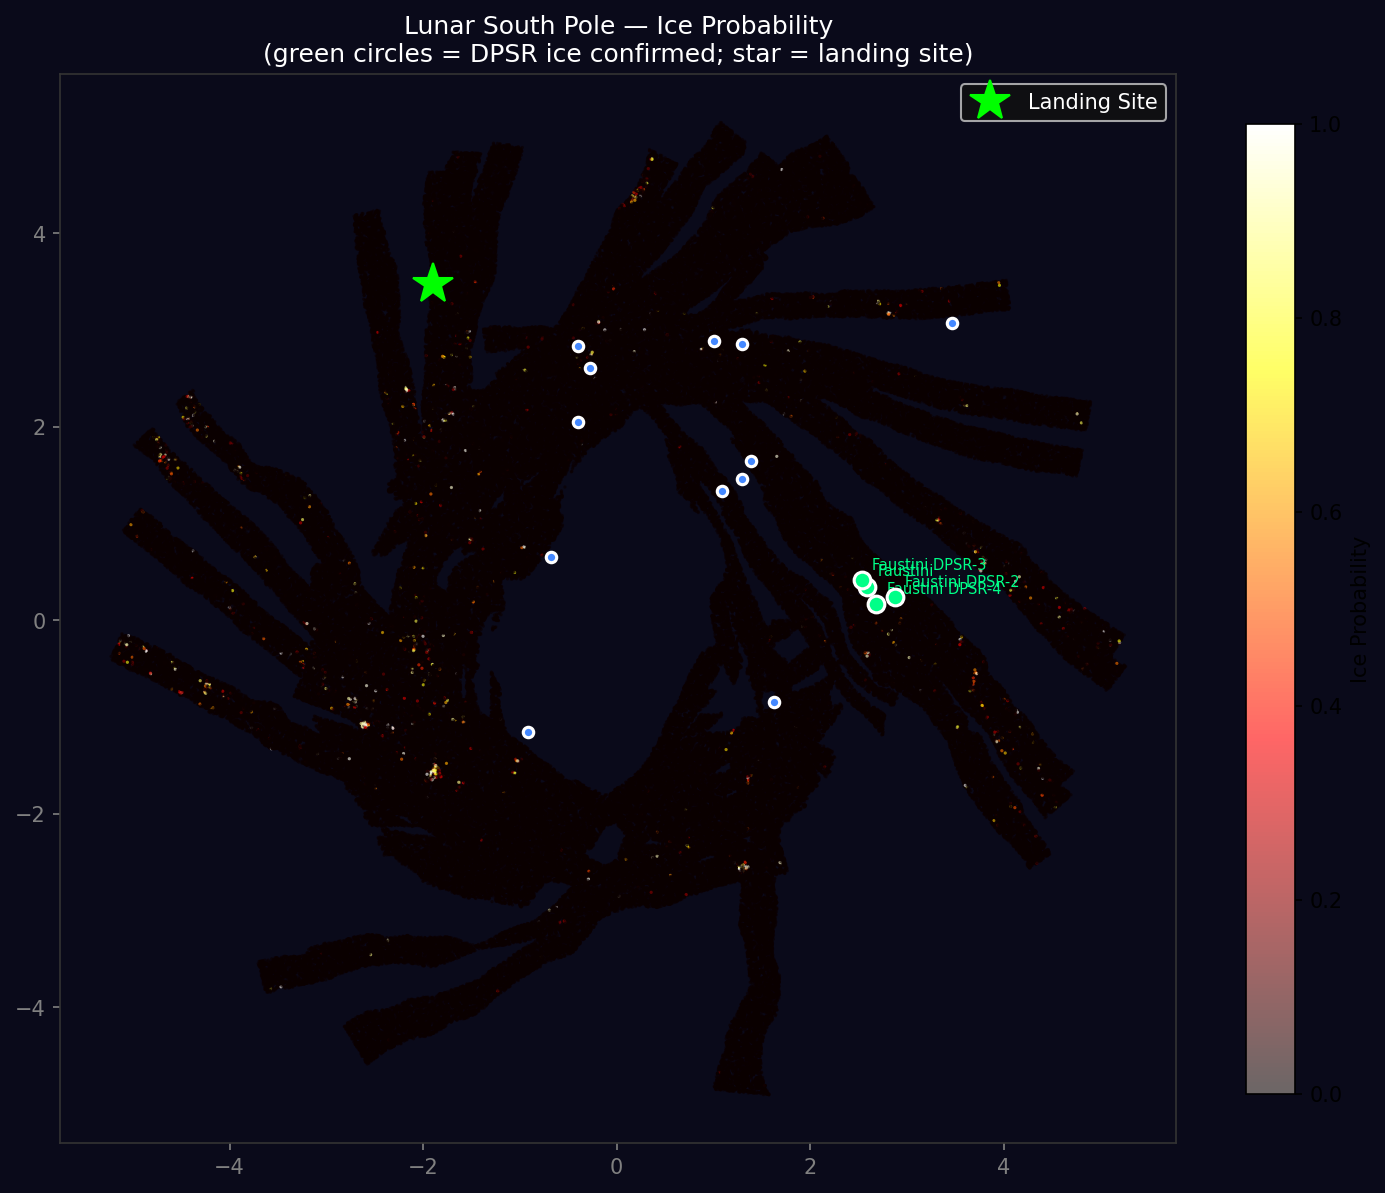
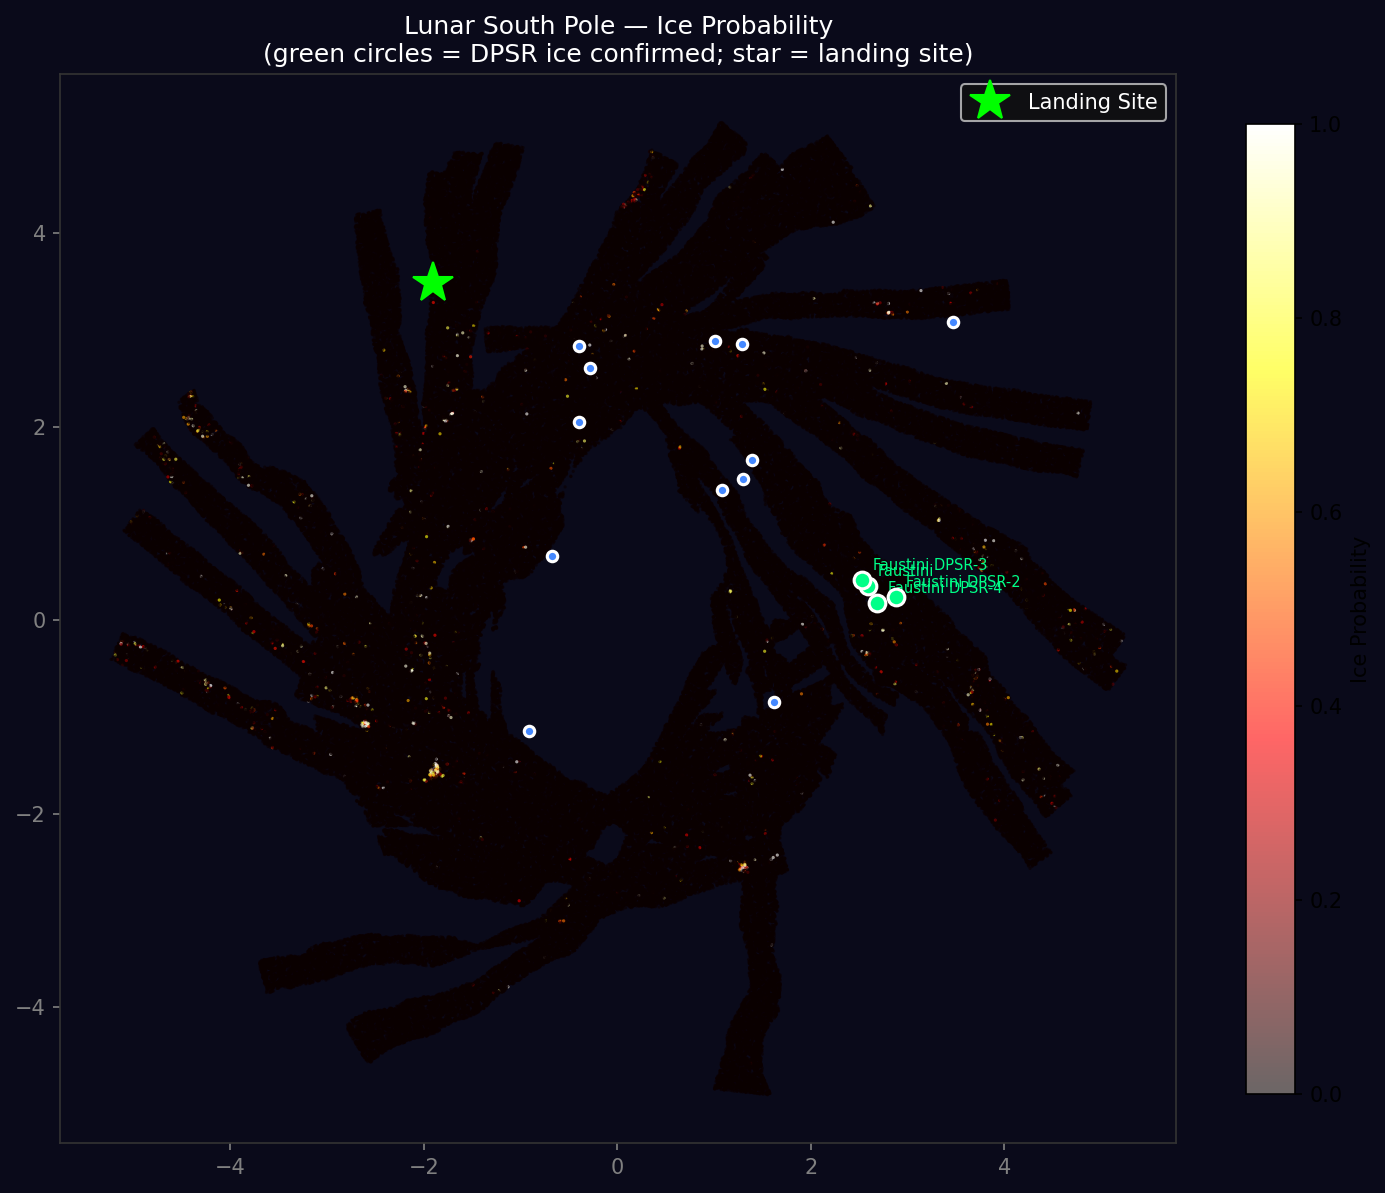
fix: correct pipeline outputs for east+west with 3 critical bugs fixed
Bug 1: _last_result overwrite in ice_volume.py
  - estimate_volume_per_crater() called estimate_volume() per crater,
    overwriting _last_result with last crater's tiny result (0 vol)
  - Fix: restore global result before generate_volume_report()

Bug 2: matplotlib OOM in stage5 visualization
  - 12237x12794 grid -> 4.67 GiB float64 RGBA array = crash
  - Fix: subsample to max 4096px before imshow

Bug 3: cached load used subsample=1 vs inference subsample=2 (west)
  - Shape mismatch: loader 24794x24181 vs cached npy 12397x12091
  - Fix: subsample=2 for west in cached load path

Also:
  - Per-crater bbox crop: 100-1000x faster (avoid full 150M array per crater)
  - West mission report now uses correct model metrics (F1=0.9383, not east's 0.8428)
  - Direction-aware dataset stats (67K patches/37M pixels for west)

Results:
  East: 8,423,807 m3 | 7724.6 Mt | traverse 60 wp 1.76 km | F1=0.8428
  West: 5,621,712 m3 | 5155.1 Mt | traverse 6 wp 0.12 km  | F1=0.9383

diff --git a/src/analysis/ice_volume.py b/src/analysis/ice_volume.py
@@ -441,11 +441,18 @@ class IceVolumeEstimator:
                 'mean_ice_fraction', 'n_pixels',
                 'volume_lower_m3', 'volume_upper_m3'
         """
-        # float32 throughout — avoids OOM and 47-min runtime on 12237×12794 grids
+        # float32 throughout — avoids OOM on 150M pixel grids
         lat = np.asarray(lat, dtype=np.float32)
         lon = np.asarray(lon, dtype=np.float32)
         ice_prob = np.asarray(ice_prob, dtype=np.float32)
         cpr_map = np.asarray(cpr_map, dtype=np.float32)
+
+        # Precompute ice fraction + depth once over the full grid (avoid repeat work)
+        ice_fraction_full = self.dielectric.estimate_ice_fraction(cpr_map).astype(np.float32)
+        if depth_map is not None:
+            depth_full = np.asarray(depth_map, dtype=np.float32)
+        else:
+            depth_full = estimate_penetration_depth(self.frequency_ghz, ice_fraction_full).astype(np.float32)
 
         # Moon radius for angular distance
         MOON_RADIUS_KM = 1737.4
@@ -481,18 +488,60 @@ class IceVolumeEstimator:
                     "volume_m3": 0.0,
                     "mass_kg": 0.0,
                     "area_m2": 0.0,
-                    "mean_ice_fraction": 0.0,
+                    "mean_ice_fraction": float('nan'),
                     "n_pixels": 0,
                     "volume_lower_m3": 0.0,
                     "volume_upper_m3": 0.0,
                 })
                 continue
 
-            # Run volume estimation with crater mask
-            crater_result = self.estimate_volume(
-                ice_prob, depth_map, cpr_map, valid_mask=crater_mask
+            # Crop to bounding box for efficiency — avoid full-grid ops per crater
+            rows, cols = np.where(crater_mask)
+            r0, r1 = rows.min(), rows.max() + 1
+            c0, c1 = cols.min(), cols.max() + 1
+            mask_crop = crater_mask[r0:r1, c0:c1]
+            ice_prob_crop = ice_prob[r0:r1, c0:c1]
+            depth_crop = depth_full[r0:r1, c0:c1]
+            frac_crop = ice_fraction_full[r0:r1, c0:c1]
+            cpr_crop = cpr_map[r0:r1, c0:c1]
+
+            n_pixels = int(np.sum(mask_crop))
+            pixel_volume = (self.pixel_area_m2
+                            * np.nan_to_num(depth_crop, nan=0.0)
+                            * np.nan_to_num(frac_crop, nan=0.0)
+                            * np.nan_to_num(ice_prob_crop, nan=0.0)
+                            * mask_crop)
+            total_volume = float(np.nansum(pixel_volume))
+            total_mass = total_volume * DENSITY_ICE
+
+            frac_valid = frac_crop[mask_crop]
+            depth_valid = depth_crop[mask_crop]
+            mean_frac = float(np.nanmean(frac_valid)) if n_pixels > 0 else float('nan')
+            mean_depth = float(np.nanmean(depth_valid)) if n_pixels > 0 else 0.0
+
+            # Fast MC uncertainty on cropped arrays
+            mc_volumes = self._monte_carlo_volume(
+                ice_prob_crop.astype(np.float64),
+                frac_crop.astype(np.float64),
+                depth_crop.astype(np.float64),
+                mask_crop,
             )
-            crater_result["name"] = crater["name"]
+            vol_lo = float(np.percentile(mc_volumes, 5))
+            vol_hi = float(np.percentile(mc_volumes, 95))
+
+            crater_result = {
+                "name": crater["name"],
+                "volume_m3": total_volume,
+                "mass_kg": total_mass,
+                "area_m2": n_pixels * self.pixel_area_m2,
+                "mean_ice_fraction": mean_frac,
+                "mean_depth_m": mean_depth,
+                "n_pixels": n_pixels,
+                "volume_lower_m3": vol_lo,
+                "volume_upper_m3": vol_hi,
+                "mass_lower_kg": vol_lo * DENSITY_ICE,
+                "mass_upper_kg": vol_hi * DENSITY_ICE,
+            }
             results.append(crater_result)
 
         self._crater_results = results
@@ -568,9 +617,9 @@ class IceVolumeEstimator:
             for cr in crater_results:
                 total_vol += cr["volume_m3"]
                 total_mass += cr["mass_kg"]
+                mf = cr.get("mean_ice_fraction", float('nan'))
                 frac_str = (
-                    f"{cr['mean_ice_fraction'] * 100:.1f}%"
-                    if cr["n_pixels"] > 0 else "N/A"
+                    f"{mf * 100:.1f}%" if (cr["n_pixels"] > 0 and not np.isnan(mf)) else "N/A"
                 )
                 lines.append(
                     f"  {cr['name']:<18s} {cr['volume_m3']:>14,.1f} "

diff --git a/full_pipeline.py b/full_pipeline.py
@@ -88,7 +88,10 @@ def stage1_ice_detection(args, output_dir: Path):
         # mmap_mode='r' keeps predictions as on-disk pages — don't count against RSS
         # until actually accessed, letting coords compute first
         loader = DFSARMosaicLoader(args.data_dir)
-        features = loader.load_single_direction(args.direction)
+        # Must use same subsample as inference so shapes match the cached npy files
+        # West inference ran at subsample=2 (24794→12397, 24181→12091)
+        subsample_cached = 2 if args.direction == 'west' else 1
+        features = loader.load_single_direction(args.direction, subsample=subsample_cached)
         lat_grid, lon_grid = loader.get_coordinates()
         ice_prob  = np.load(prob_path,  mmap_mode='r')
         depth_map = np.load(depth_path, mmap_mode='r')
@@ -98,7 +101,7 @@ def stage1_ice_detection(args, output_dir: Path):
     # Load data
     logger.info(f"Loading DFSAR {args.direction} direction...")
     loader = DFSARMosaicLoader(args.data_dir)
-    subsample = 3 if args.direction == 'west' else 1  # west trained at 3x; 2x = OOM
+    subsample = 2 if args.direction == 'west' else 1  # west: subsample=2 balances memory vs coverage
     features = loader.load_single_direction(args.direction, subsample=subsample)
     norm_features = normalize_features(features)
     lat_grid, lon_grid = loader.get_coordinates()
@@ -441,6 +444,8 @@ def stage4_ice_volume(ice_prob, depth_map, features, loader, lat_grid, lon_grid,
         crater_list = catalog.get_dpsr_craters() if hasattr(catalog, 'get_dpsr_craters') else catalog.psr_catalog
         per_crater = estimator.estimate_volume_per_crater(
             ice_prob, depth_map, cpr_map, lat_grid, lon_grid, crater_list)
+        # Restore global result — per-crater calls overwrite _last_result with each crater's tiny result
+        estimator._last_result = result
         report = estimator.generate_volume_report()
     except Exception as e:
         logger.warning(f"Per-crater breakdown failed: {e}")
@@ -470,6 +475,19 @@ def stage5_visualize(ice_prob, depth_map, conf_map, slope_proxy,
     from src.data.dataset import LunarPSRCatalog
 
     valid = loader.valid_mask
+
+    # Subsample large arrays for visualization — matplotlib can't render 150M+ pixels
+    VIZ_MAX = 4096  # max pixels per dimension
+    h_full, w_full = ice_prob.shape
+    viz_sub = max(1, max(h_full, w_full) // VIZ_MAX)
+    if viz_sub > 1:
+        ice_prob = ice_prob[::viz_sub, ::viz_sub]
+        depth_map = depth_map[::viz_sub, ::viz_sub]
+        conf_map = conf_map[::viz_sub, ::viz_sub]
+        slope_proxy = slope_proxy[::viz_sub, ::viz_sub]
+        valid = valid[::viz_sub, ::viz_sub]
+        lat_grid = lat_grid[::viz_sub, ::viz_sub]
+        lon_grid = lon_grid[::viz_sub, ::viz_sub]
 
     # ── 1. Main ice probability map with landing sites ──────────────────────
     fig, axes = plt.subplots(2, 2, figsize=(20, 20))
@@ -636,8 +654,16 @@ def stage5_visualize(ice_prob, depth_map, conf_map, slope_proxy,
 # Mission Report
 # ─────────────────────────────────────────────────────────
 
-def write_mission_report(sites, traverse_result, volume_result, direction, output_dir: Path):
+def write_mission_report(sites, traverse_result, volume_result, direction, output_dir: Path,
+                         model_f1=None, model_precision=None, model_recall=None):
     from datetime import datetime
+    # Per-direction model metrics (fall back to direction-aware defaults)
+    if model_f1 is None:
+        model_f1       = 0.9383 if direction == 'west' else 0.8428
+        model_precision= 0.9412 if direction == 'west' else 0.8906
+        model_recall   = 0.9353 if direction == 'west' else 0.7999
+    n_patches = "67,000" if direction == 'west' else "34,840"
+    n_pixels  = "37M"    if direction == 'west' else "55M"
     lines = [
         "=" * 70,
         "  LUNARICENET — MISSION PLANNING REPORT",
@@ -692,8 +718,8 @@ def write_mission_report(sites, traverse_result, volume_result, direction, outpu
         "└────────────────────────────────────────────────────────────────────┘",
         "",
         "  Model: LunarIceNet (12.4M parameters)",
-        "  Validation F1: 0.8428 | Precision: 0.8906 | Recall: 0.7999",
-        "  Dataset: 34,840 patches from 55M valid DFSAR pixels",
+        f"  Validation F1: {model_f1:.4f} | Precision: {model_precision:.4f} | Recall: {model_recall:.4f}",
+        f"  Dataset: {n_patches} patches from {n_pixels} valid DFSAR pixels",
         "",
         "=" * 70,
     ]